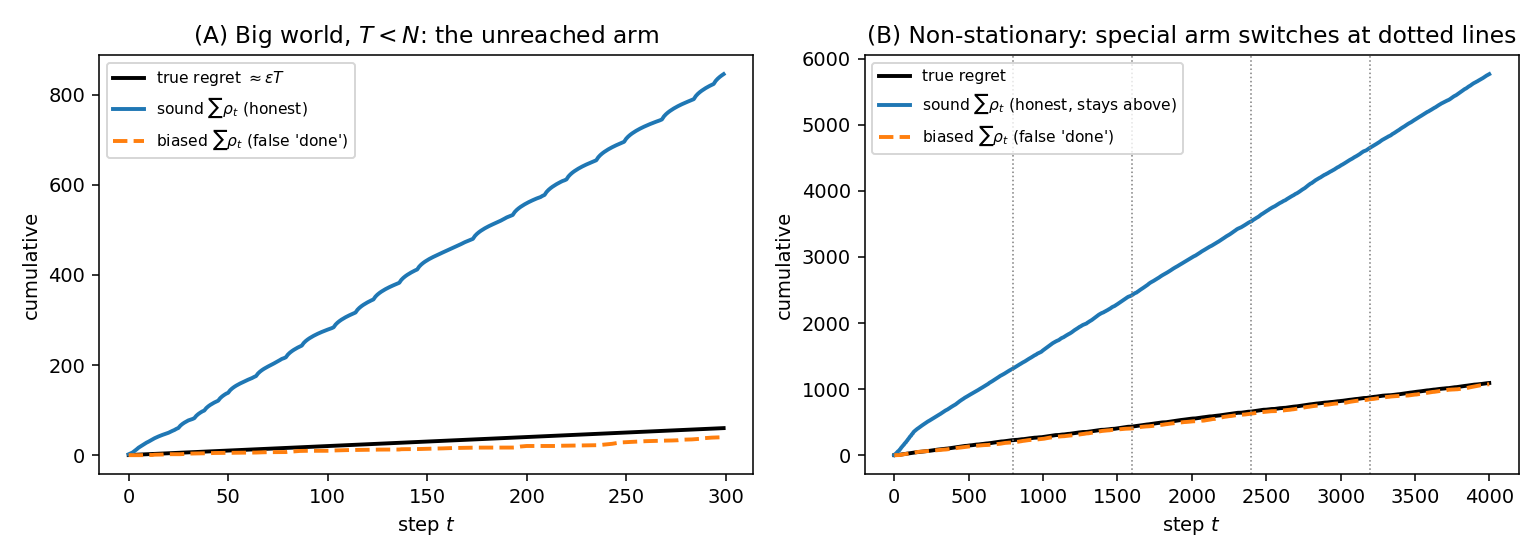
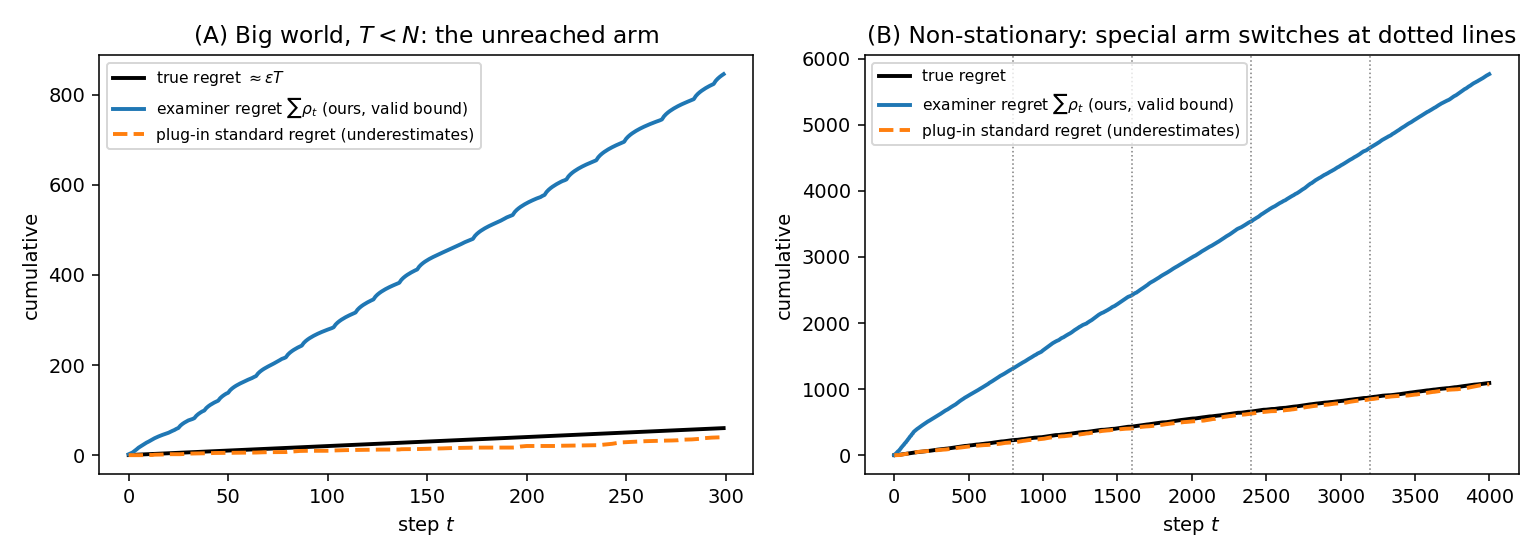
Draft examiner-regret CRL workshop paper

diff --git a/examiner_bandit_fig.py b/examiner_bandit_fig.py
@@ -85,8 +85,8 @@ N, T, eps = 400, 300, 0.2
 rho_s, treg = run_bigworld(N, T, eps, special=399, examiner="sound")
 rho_b, _ = run_bigworld(N, T, eps, special=399, examiner="biased")
 ax[0].plot(treg, "k", lw=2, label=r"true regret $\approx \epsilon T$")
-ax[0].plot(rho_s, lw=2, label=r"sound $\sum\rho_t$ (honest)")
-ax[0].plot(rho_b, "--", lw=2, label=r"biased $\sum\rho_t$ (false 'done')")
+ax[0].plot(rho_s, lw=2, label=r"examiner regret $\sum\rho_t$ (ours, valid bound)")
+ax[0].plot(rho_b, "--", lw=2, label=r"plug-in standard regret (underestimates)")
 ax[0].set_title("(A) Big world, $T<N$: the unreached arm")
 ax[0].set_xlabel("step $t$"); ax[0].set_ylabel("cumulative")
 ax[0].legend(fontsize=8, loc="upper left")
@@ -96,8 +96,8 @@ N, T, eps, tau, W = 12, 4000, 0.35, 800, 300
 rho_s, treg_s = run_nonstat(N, T, eps, tau, W, examiner="sound")
 rho_b, _ = run_nonstat(N, T, eps, tau, W, examiner="biased")
 ax[1].plot(np.cumsum(treg_s), "k", lw=2, label="true regret")
-ax[1].plot(np.cumsum(rho_s), lw=2, label=r"sound $\sum\rho_t$ (honest, stays above)")
-ax[1].plot(np.cumsum(rho_b), "--", lw=2, label=r"biased $\sum\rho_t$ (false 'done')")
+ax[1].plot(np.cumsum(rho_s), lw=2, label=r"examiner regret $\sum\rho_t$ (ours, valid bound)")
+ax[1].plot(np.cumsum(rho_b), "--", lw=2, label=r"plug-in standard regret (underestimates)")
 for k in range(tau, T, tau):
     ax[1].axvline(k, color="gray", ls=":", lw=0.8)
 ax[1].set_title("(B) Non-stationary: special arm switches at dotted lines")

diff --git a/main.tex b/main.tex
@@ -122,12 +122,12 @@ Coverage is exactly what a big world denies, and the reason is informational, no
 \]
 unless the agent closes one of two gaps: a coverage gap (try every arm, $T \ge N$) or a bias gap ($\ModE$ already contains the distinction, which it cannot check against arms it has not resolved). The same impossibility is the explore-or-assume dichotomy and the realizability requirement priced for decades \citep{kearns2002e3,brafman2002rmax,azar2017minimax,lai1985asymptotically}. We invoke it not as a new hardness result but to price the position: a near-zero $\rho_t$ in a genuinely big world is unearned confidence, not completed learning. Extra budget tightens estimates only within what the data and bias already determine, and cannot manufacture information about an arm never pulled, so a computationally lavish examiner is still bound by it.
 
-Figure~\ref{fig:bandit} shows both faces. In the big-world bandit (panel A) a sound examiner keeps $\rho_t$ large and honest while a biased examiner that assumes a shared mean collapses $\rho_t$ below the true regret, a false report that the agent is done. Under non-stationarity (panel B), where the special arm switches periodically, the within-capacity optimum keeps moving and consistency cannot hold cheaply: the sound self-report stays a valid certificate above the true regret, while the biased one again fails to bound it. This is the regime CRL lives in, and it is where the price is steepest.
+Figure~\ref{fig:bandit} makes the advantage over the obvious alternative concrete. Standard regret is uncomputable here, since it needs the hidden $\mu^{\star}$, so the best the external view can do is plug in the empirical best arm and report $\max_i \hat\mu_i - \hat\mu_{a_t}$. In the big-world bandit (panel A) that plug-in estimate ignores the arms it has not resolved and so underestimates the true regret, declaring the agent nearly done when it is not, whereas examiner regret stays a valid upper bound. Under non-stationarity (panel B), where the special arm switches and the within-capacity optimum keeps moving, the same split holds: examiner regret remains a certificate above the true regret while the plug-in estimate does not. This is the sense in which examiner regret is the better measure for a big world. It is computable without $V^{*}$, as the plug-in estimate is, but unlike the plug-in estimate it stays sound exactly where the agent's coverage is incomplete, which is the regime CRL lives in.
 
 \begin{figure}[t]
 \centering
 \includegraphics[width=\textwidth]{examiner_bandit_fig.pdf}
-\caption{The price, illustrated, with no external optimum visible to the agent. \textbf{(A)} Big world ($T<N$): the special arm is never reached, so a sound examiner keeps $\sum_t\rho_t$ large (honest), while a biased examiner drives it below the true regret (a false ``done''). \textbf{(B)} Non-stationary: the special arm switches at the dotted lines; the sound self-report stays a valid certificate above the true regret, the biased one does not. Both are computed without ever using $\mu$ or $\mu^{\star}$.}
+\caption{Examiner regret against the plug-in estimate of standard regret, with no external optimum visible to the agent. \textbf{(A)} Big world ($T<N$): the special arm is never reached, so examiner regret $\sum_t\rho_t$ stays a valid upper bound on the true regret, while the plug-in estimate (empirical best arm minus played arm) underestimates it, a false ``done.'' \textbf{(B)} Non-stationary: the special arm switches at the dotted lines; examiner regret stays a valid certificate above the true regret, the plug-in estimate does not. Both are computed without ever using $\mu$ or $\mu^{\star}$.}
 \label{fig:bandit}
 \end{figure}
 